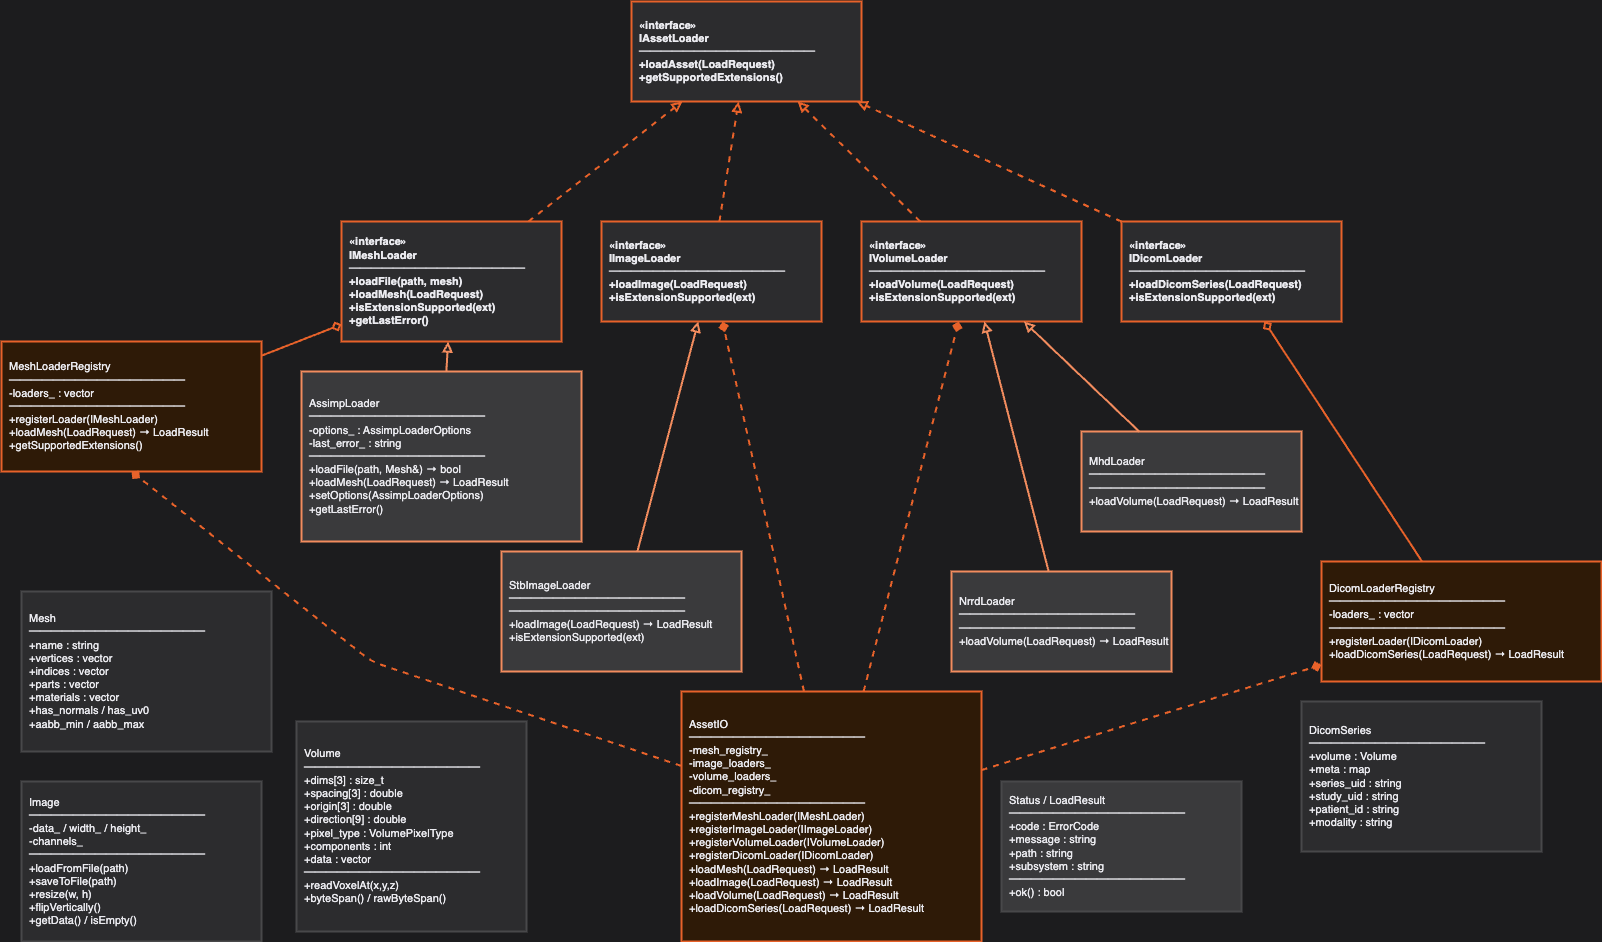
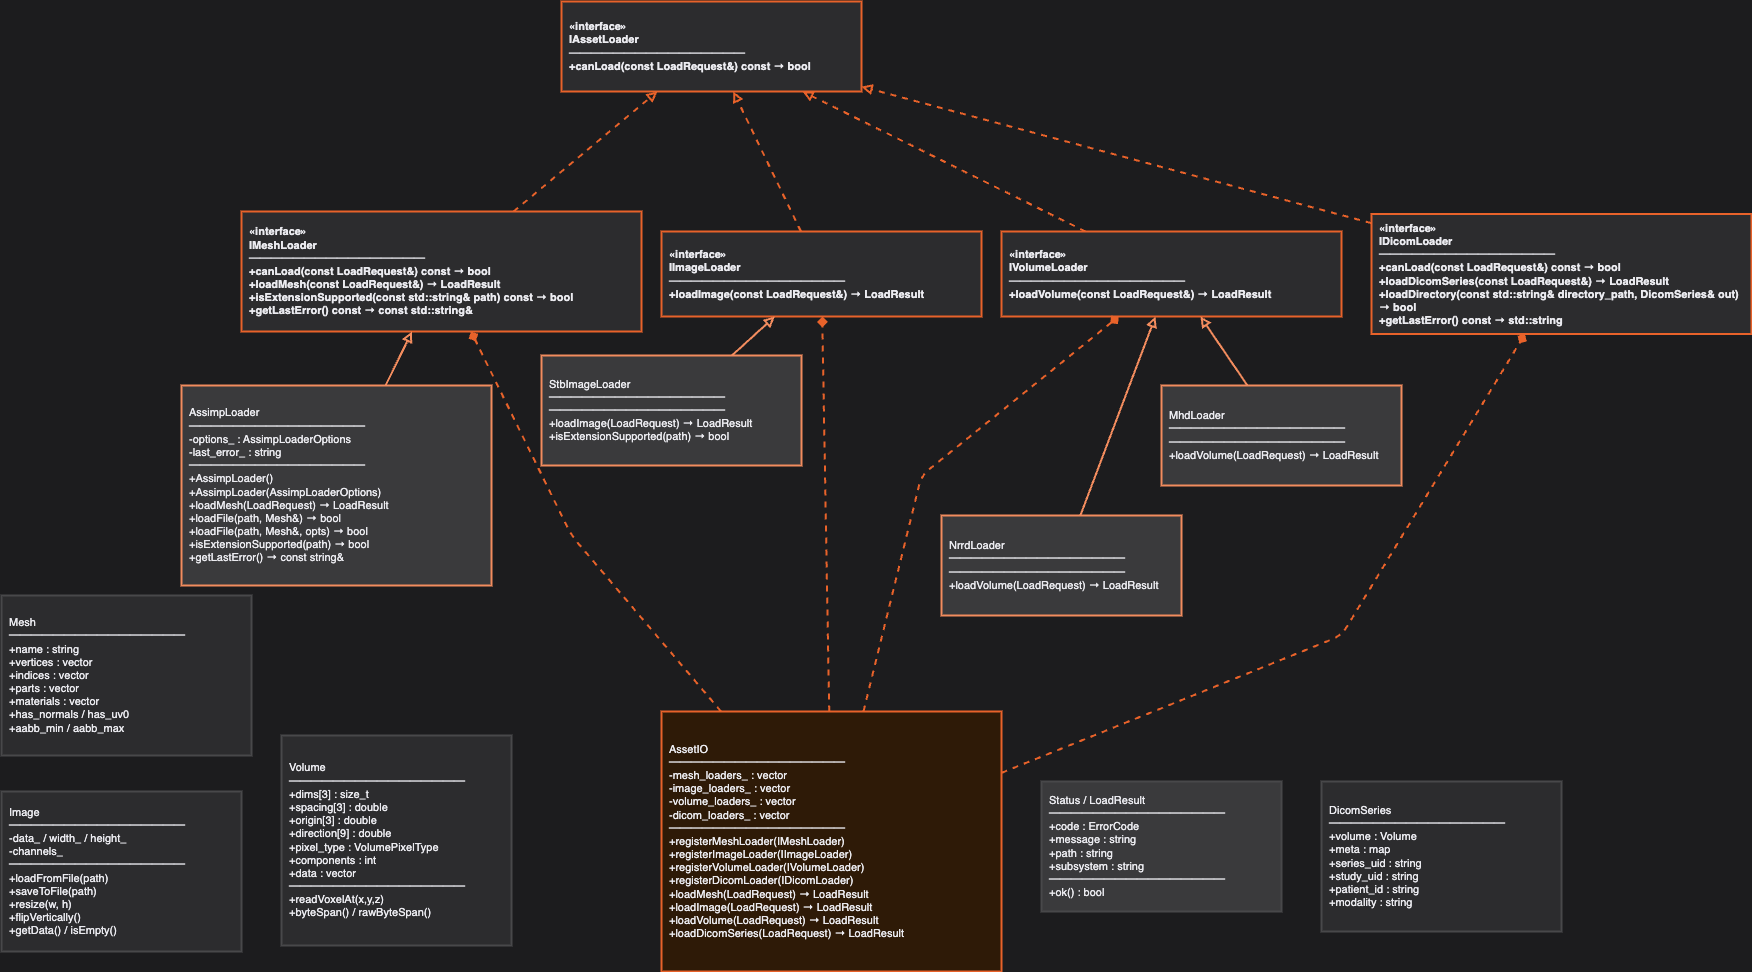
docs: Update documentation for AssetIO and loader options; enhance class diagrams and README

diff --git a/tests/mesh/mesh_loader_test.cpp b/tests/mesh/mesh_loader_test.cpp
@@ -9,10 +9,10 @@
  * ----------------------------------------------------------------------
  */
 
+#include "vertexnova/io/asset_io.h"
 #include "vertexnova/io/mesh/mesh.h"
 #include "vertexnova/io/mesh/mesh_loader.h"
 #include "vertexnova/io/mesh/assimp_loader.h"
-#include "vertexnova/io/mesh/mesh_loader_registry.h"
 #include "vertexnova/io/utils/path_utils.h"
 
 #include <filesystem>
@@ -226,30 +226,51 @@ TEST_F(MeshLoaderTest, MultipleLoads) {
     EXPECT_EQ(mesh1.getSubmeshCount(), mesh2.getSubmeshCount());
 }
 
-TEST_F(MeshLoaderTest, LoadViaIMeshLoader) {
-    AssimpLoader loader;
-    IMeshLoader* iface = &loader;
-    Mesh mesh;
+TEST_F(MeshLoaderTest, LoadViaAssetIO) {
+    vne::io::AssetIO io;
+    io.registerMeshLoader(std::make_unique<AssimpLoader>());
+
+    vne::io::LoadRequest request;
+    request.asset_type = vne::io::AssetType::eMesh;
+    request.uri = kMeshPath;
+
+    auto result = io.loadMesh(request);
+    ASSERT_TRUE(result.ok()) << result.status.message;
+    EXPECT_FALSE(result.value.isEmpty());
+    EXPECT_GT(result.value.getVertexCount(), 0u);
+}
+
+TEST_F(MeshLoaderTest, LoadViaAssetIOWithOptions) {
     AssimpLoaderOptions opts;
     opts.triangulate = true;
     opts.calc_normals_if_missing = true;
     opts.pre_transform_vertices = false;
     opts.flip_uvs = false;
     opts.gen_tangents = false;
-    EXPECT_TRUE(iface->loadFile(kMeshPath, mesh));
-    EXPECT_FALSE(mesh.isEmpty());
-    EXPECT_GT(mesh.getVertexCount(), 0u);
+
+    vne::io::AssetIO io;
+    io.registerMeshLoader(std::make_unique<AssimpLoader>(opts));
+
+    vne::io::LoadRequest request;
+    request.asset_type = vne::io::AssetType::eMesh;
+    request.uri = kMeshPath;
+
+    auto result = io.loadMesh(request);
+    ASSERT_TRUE(result.ok()) << result.status.message;
+    EXPECT_FALSE(result.value.isEmpty());
+    EXPECT_GT(result.value.getVertexCount(), 0u);
+    EXPECT_GT(result.value.getIndexCount(), 0u);
 }
 
-TEST_F(MeshLoaderTest, RegistryReturnsLoaderForSupportedPath) {
-    auto loader = MeshLoaderRegistry::getLoaderFor(kMeshPath);
-    ASSERT_NE(loader, nullptr);
-    Mesh mesh;
-    EXPECT_TRUE(loader->loadFile(kMeshPath, mesh));
-    EXPECT_FALSE(mesh.isEmpty());
-}
+TEST_F(MeshLoaderTest, AssetIOUnsupportedFormatReturnsError) {
+    vne::io::AssetIO io;
+    io.registerMeshLoader(std::make_unique<AssimpLoader>());
 
-TEST_F(MeshLoaderTest, RegistryReturnsNullForUnsupportedPath) {
-    auto loader = MeshLoaderRegistry::getLoaderFor("file.xyz");
-    EXPECT_EQ(loader, nullptr);
+    vne::io::LoadRequest request;
+    request.asset_type = vne::io::AssetType::eMesh;
+    request.uri = "model.xyz_unknown";
+
+    auto result = io.loadMesh(request);
+    EXPECT_FALSE(result.ok());
+    EXPECT_EQ(result.status.code, vne::io::ErrorCode::eUnsupportedFormat);
 }

diff --git a/tests/asset_io_test.cpp b/tests/asset_io_test.cpp
@@ -80,6 +80,32 @@ TEST(AssetIOTest, LoadMeshViaRegistry) {
     EXPECT_FALSE(result.value.isEmpty());
 }
 
+TEST(AssetIOTest, LoadMeshViaRegistryWithOptions) {
+    vne::mesh::AssimpLoaderOptions opts;
+    opts.triangulate = true;
+    opts.calc_normals_if_missing = true;
+    opts.pre_transform_vertices = false;
+    opts.flip_uvs = false;
+    opts.gen_tangents = false;
+
+    AssetIO io;
+    io.registerMeshLoader(std::make_unique<vne::mesh::AssimpLoader>(opts));
+
+    std::string path = getTestdataPath("meshes/minimal.stl");
+    if (!std::filesystem::exists(path)) {
+        GTEST_SKIP() << "Test mesh not found: " << path;
+    }
+
+    LoadRequest request;
+    request.asset_type = AssetType::eMesh;
+    request.uri = path;
+
+    LoadResult<vne::mesh::Mesh> result = io.loadMesh(request);
+    ASSERT_TRUE(result.ok()) << result.status.message;
+    EXPECT_FALSE(result.value.isEmpty());
+    EXPECT_GT(result.value.getVertexCount(), 0u);
+}
+
 TEST(AssetIOTest, NoLoaderReturnsError) {
     AssetIO io;
     LoadRequest request;

diff --git a/docs/vertexnova/io/vneio.md b/docs/vertexnova/io/vneio.md
@@ -8,8 +8,8 @@ The **VertexNova I/O** library (`vneio`) provides modular, production-ready asse
 
 - **Component-modular** — Mesh, Image, Volume, and DICOM subsystems are independently buildable (`VNEIO_BUILD_MESH`, `VNEIO_BUILD_IMAGE`). Link only what you need via `vne::io::mesh`, `vne::io::image`, or the aggregate `vne::io`.
 - **Stable error model** — Every load returns a `LoadResult<T>` carrying a `Status` with a stable `ErrorCode` enum, message, file path, and subsystem string. No exceptions required.
-- **Registry pattern** — `AssetIO` holds lists of registered `IMeshLoader`, `IImageLoader`, `IVolumeLoader`, and `IDicomLoader` instances; it routes each `LoadRequest` to the first matching loader by extension or format hint.
-- **Direct loader pattern** — Loaders such as `AssimpLoader` and `StbImageLoader` are also usable standalone without `AssetIO`; `loadFile()` provides a legacy `bool` return for minimal friction.
+- **Single entry point** — `AssetIO` is the canonical API. Register loaders once, then call `loadMesh` / `loadImage` / `loadVolume` / `loadDicomSeries`. The registry routes each `LoadRequest` to the first registered loader that claims support for the extension.
+- **Options at construction** — Loader-specific options (e.g. `AssimpLoaderOptions`) are baked into the loader at construction, keeping `LoadRequest` format-agnostic.
 - **Pluggable backends** — DICOM support is opt-in at configure time (`-DVNEIO_WITH_GDCM=ON` / `-DVNEIO_WITH_DCMTK=ON`); no DICOM symbol is included in the default build.
 
 ![System context](diagrams/context.png)
@@ -39,14 +39,13 @@ If a PNG does not load, export the matching `.drawio` from [diagrams.net](https:
 |-------|-------|
 | Interfaces | `IAssetLoader` (base), `IMeshLoader`, `IImageLoader`, `IVolumeLoader`, `IDicomLoader`. |
 | Concrete loaders | `AssimpLoader`, `StbImageLoader`, `NrrdLoader`, `MhdLoader`. |
-| Registries | `MeshLoaderRegistry`, `DicomLoaderRegistry`. |
-| Unified registry | `AssetIO` — registers and dispatches all loader types. |
+| Registry | `AssetIO` — registers and dispatches all loader types. |
 | Data structures | `Mesh`, `Image`, `Volume`, `DicomSeries`. |
 | Error types | `Status`, `LoadResult<T>`, `ErrorCode`. |
 
 Export `diagrams/class.drawio` → `diagrams/class.png`.
 
-![Runtime pipeline](diagrams/runtime-pipeline.png)
+![Runtime pipeline](diagrams/runtime.png)
 
 **Figure 3 — Runtime pipeline (single asset load call)**
 
@@ -90,7 +89,7 @@ Export `diagrams/component.drawio` → `diagrams/component.png`.
 
 - **`ErrorCode`** — Stable enum values: `eOk`, `eFileNotFound`, `eUnsupportedFormat`, `eReadError`, `eInvalidData`, `eOutOfMemory`, and more. Use codes in switch statements; do not match on message strings.
 - **`Status`** — Bundles `code`, `message`, `path`, `subsystem`. Returned from every loader call via `LoadResult<T>`.
-- **`LoadResult<T>`** — Template wrapper: holds a `T value` and a `Status`. Call `.ok()` to check success; access `.value` and `.status` directly. Loaders that expose `loadFile(path, Mesh&)` return a plain `bool` for backward compatibility; `getLastError()` retrieves the matching `Status`.
+- **`LoadResult<T>`** — Template wrapper: holds a `T value` and a `Status`. Call `.ok()` to check success; access `.value` and `.status` directly.
 
 ```cpp
 auto result = assetIO.loadMesh(LoadRequest{AssetType::eMesh, "model.glb"});
@@ -106,7 +105,15 @@ const vne::mesh::Mesh& mesh = result.value;
 
 #### `AssimpLoader`
 
-Wraps the Assimp 3D import library. `loadFile(path, Mesh&)` is the legacy entry point; `loadMesh(LoadRequest)` returns `LoadResult<Mesh>`.
+Wraps the Assimp 3D import library. Register with `AssetIO` using `loadMesh(LoadRequest)` → `LoadResult<Mesh>`. Pass loader options at construction so `AssetIO` callers stay format-agnostic:
+
+```cpp
+AssimpLoaderOptions opts;
+opts.generate_barycentrics = true;
+io.registerMeshLoader(std::make_unique<AssimpLoader>(opts));
+```
+
+For direct use without `AssetIO`, `loadFile(path, Mesh&)` and `loadFile(path, Mesh&, opts)` are available on the concrete class.
 
 **`AssimpLoaderOptions`** controls post-processing:
 
@@ -121,10 +128,6 @@ Wraps the Assimp 3D import library. `loadFile(path, Mesh&)` is the legacy entry 
 | `generate_barycentrics` | false | Compute barycentric coordinates per vertex. |
 
 **Supported formats** (depends on Assimp build flags): OBJ, STL, PLY, FBX, glTF 2.0, Collada (DAE), and more.
-
-#### `MeshLoaderRegistry`
-
-Holds zero or more `IMeshLoader` instances. `loadMesh(LoadRequest)` iterates registered loaders and delegates to the first that claims support for the requested extension.
 
 #### `MeshExporter`
 
@@ -170,10 +173,6 @@ Exporters for NRRD (`VolumeExporterNrrd`) and MHD (`VolumeExporterMhd`) are incl
 
 Contains a reconstructed `Volume` plus DICOM metadata: `series_uid`, `study_uid`, `patient_id`, `modality`, and a `meta` string map for additional tags.
 
-#### `DicomLoaderRegistry`
-
-Same registry pattern as `MeshLoaderRegistry`. Concrete loaders backed by GDCM or DCMTK are linked when the respective CMake option is enabled. Applications using neither backend can still instantiate `DicomLoaderRegistry` but must register their own `IDicomLoader`.
-
 ### Unified registry (`AssetIO`)
 
 `AssetIO` is the top-level facade:
@@ -208,23 +207,26 @@ auto volume = io.loadVolume(LoadRequest{AssetType::eVolume, "ct.nrrd"});
 ### Mesh
 
 ```cpp
-#include <vertexnova/io/mesh/assimp_loader.h>
+#include <vertexnova/io/vneio.h>
 
-vne::mesh::AssimpLoader loader;
-vne::mesh::Mesh mesh;
-if (loader.loadFile("model.obj", mesh)) {
-    // mesh.vertices, mesh.indices, mesh.parts, mesh.materials
-    // mesh.has_normals, mesh.has_uv0, mesh.aabb_min, mesh.aabb_max
-}
-```
+vne::io::AssetIO io;
+io.registerMeshLoader(std::make_unique<vne::mesh::AssimpLoader>());
 
-Or with error handling via `LoadResult`:
-
-```cpp
-auto result = loader.loadMesh(vne::io::LoadRequest{vne::io::AssetType::eMesh, "model.glb"});
+auto result = io.loadMesh(vne::io::LoadRequest{vne::io::AssetType::eMesh, "model.glb"});
 if (!result.ok()) {
     fprintf(stderr, "Load failed: %s\n", result.status.message.c_str());
+    return;
 }
+// result.value: mesh.vertices, mesh.indices, mesh.parts, mesh.materials
+```
+
+With custom options:
+
+```cpp
+vne::mesh::AssimpLoaderOptions opts;
+opts.generate_barycentrics = true;
+opts.normalize_to_unit_sphere = true;
+io.registerMeshLoader(std::make_unique<vne::mesh::AssimpLoader>(opts));
 ```
 
 ### Image
@@ -252,14 +254,6 @@ if (result.ok()) {
     float voxel = vol.readVoxelAt<float>(x, y, z);
 }
 ```
-
-### Loading pattern choice
-
-| Pattern | When to use |
-|---------|-------------|
-| Direct loader (`loadFile`) | Quick integration; single file type; no registry overhead. |
-| Direct loader (`loadMesh(LoadRequest)`) | Need stable `LoadResult<T>` error reporting from a single loader. |
-| `AssetIO` registry | Multiple asset types from one facade; plug-in loaders at runtime; format-agnostic pipelines. |
 
 ## Integration with other VertexNova modules
 

diff --git a/README.md b/README.md
@@ -30,7 +30,7 @@ It is independent of **vnescene**, **vnemath**, and **vneevents**. **vnelogging*
 - **Mesh** — `AssimpLoader` wraps the [Assimp](https://github.com/assimp/assimp) import library; supports OBJ, STL, PLY, FBX, glTF 2.0, Collada, and more. `AssimpLoaderOptions` controls triangulation, normal/tangent generation, UV flip, barycentrics, and normalization. OBJ export included.
 - **Image** — `StbImageLoader` and the `Image` class wrap [stb_image](https://github.com/nothings/stb); supports PNG, JPG, BMP, TGA, HDR. `Image` provides resize, flip, and raw pixel access for GPU upload.
 - **Volume** — `NrrdLoader` and `MhdLoader` implement `IVolumeLoader` using [Teem NrrdIO](https://teem.sourceforge.net/nrrd/lib.html); loads 3D voxel data with full spatial metadata (dims, spacing, origin, direction matrix, pixel type). NRRD export and MHD export included.
-- **DICOM** — `DicomLoaderRegistry` with optional GDCM or DCMTK backends (`-DVNEIO_WITH_GDCM=ON` / `-DVNEIO_WITH_DCMTK=ON`). Returns `DicomSeries` (Volume + metadata map).
+- **DICOM** — `IDicomLoader` interface with optional GDCM or DCMTK backends (`-DVNEIO_WITH_GDCM=ON` / `-DVNEIO_WITH_DCMTK=ON`). Returns `DicomSeries` (Volume + metadata map). Register the loader with `AssetIO::registerDicomLoader()`.
 - **Unified registry** — `AssetIO` registers any combination of loaders and routes `LoadRequest` by asset type and file extension.
 - **Stable error model** — Every call returns `LoadResult<T>` with `Status` (stable `ErrorCode` enum, message, path, subsystem). No exceptions.
 - **Cross-platform** — Linux, macOS, Windows; mobile and Web follow vnescene / vnemath toolchains where those targets are enabled.
@@ -123,14 +123,23 @@ Default is **`static`** (`VNEIO_LIB_TYPE=static`). Use **`shared`** for a separa
 ### Mesh
 
 ```cpp
-#include <vertexnova/io/mesh/assimp_loader.h>
+#include <vertexnova/io/vneio.h>
 
-vne::mesh::AssimpLoader loader;
-vne::mesh::Mesh mesh;
-if (loader.loadFile("model.obj", mesh)) {
-    // mesh.vertices, mesh.indices, mesh.parts, mesh.materials
-    // mesh.has_normals, mesh.has_uv0, mesh.aabb_min, mesh.aabb_max
+vne::io::AssetIO io;
+io.registerMeshLoader(std::make_unique<vne::mesh::AssimpLoader>());
+
+auto result = io.loadMesh(vne::io::LoadRequest{vne::io::AssetType::eMesh, "model.obj"});
+if (result.ok()) {
+    // result.value: mesh.vertices, mesh.indices, mesh.parts, mesh.materials
 }
+```
+
+With loader options:
+
+```cpp
+vne::mesh::AssimpLoaderOptions opts;
+opts.generate_barycentrics = true;
+io.registerMeshLoader(std::make_unique<vne::mesh::AssimpLoader>(opts));
 ```
 
 ### Image
